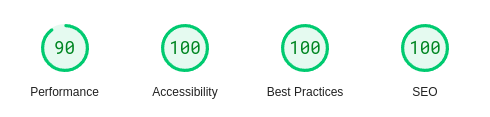
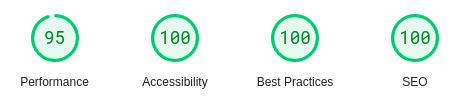
Finish Lighthouse and PageSpeed Insights section of TESTING

diff --git a/TESTING.md b/TESTING.md
@@ -11,7 +11,7 @@
         - [**_Post Development Bugs_**](#post-development-bugs)
     - [**Site Validation**](#site-validation)
         - [**_Accessibility_**](#accessibility)
-        - [**_Lighthouse Scores_**](#lighthouse-scores)
+        - [**_Lighthouse Scores and Cloudinary_**](#lighthouse-scores-and-cloudinary)
         - [**_PageSpeed Insights_**](#pagespeed-insights)
     - [**Unresolved Bugs**](#unresolved-bugs)
     - [**Testing Final Deployed Site**](#testing-final-deployed-site)
@@ -72,7 +72,17 @@ HTML - link to Accessibility below
 
 HTML validation made me realise that Cloudinary alt text wasn't pulling through, leading to amending the Room model to include it
 
-#### **Lighthouse Scores**
+#### **Lighthouse Scores and Cloudinary**
+
+On desktop, my average Lighthouse validation scores for peformance were between 95 and 100. The accessibility score drops from 100 to 94-95 on some pages, and upon investigation I found it was due to Bootstrap's info button styling.
+
+Unfortunately, on mobile I only saw one page get into the green for performance, which was the Our Rooms page, however most of the pages are above 84 with the exception of the About Us page.
+
+Initially, I was getting much lower scores across the board - in the 60s & 70s for mobile, and in the 80s for desktop. Looking into why this was, I found that part of the reason was Bootstrap, which cannot be helped, but I also realised that I had not taken into consideration the size of the image files that were being served by Cloudinary - the browser was trying to render them at full size and quality, even on smaller screens. To remedy this, I looked into how I could adjust the images based on where they were being served on the website, and found that (quite annoyingly) Cloudinary includes its responsive image options in the middle of the URLs, rather than at the end. This meant that I was unable to add the additional rules to any images that were being inserted into templates by Django, so I read through the relevant parts of Cloudinary's documentation to find a workaround. In the end I was able to massively improve overall scores by including Cloudinary-specific data strings in my templates, rather than putting the URL inside image tags. I also decided to add specific quality rules into the background images used in my CSS, which helped improve the scores.
+
+Despite this, there are still some performance issues with a couple of pages - mostly the About Us page on mobile due to the need for the images to remain high enough quality when at full height on desktop and tablet.
+
+All Lighthouse tests were performed using the published Heroku link, and done in an Incognito window.
 
 **Homepage:**
 
@@ -153,6 +163,8 @@ HTML validation made me realise that Cloudinary alt text wasn't pulling through,
 ![Login Error page Lighthouse score - mobile](docs/testing/lighthouse-mobile-login-error.png)
 
 #### **PageSpeed Insights
+
+Across the board, my PageSpeed Insights were lower than the Lighthouse scores - averaging at around 95 on Desktop and 70-80 on mobile, averaging at around 78. The insights provided were largely the same as the ones given by Lighthouse, and mostly had to do with using external stylesheets, and the Cloudinary image sizes.
 
 ![Homepage PageSpeed Insights score - desktop](docs/testing/pagespeed-desktop-homepage.png)
 
